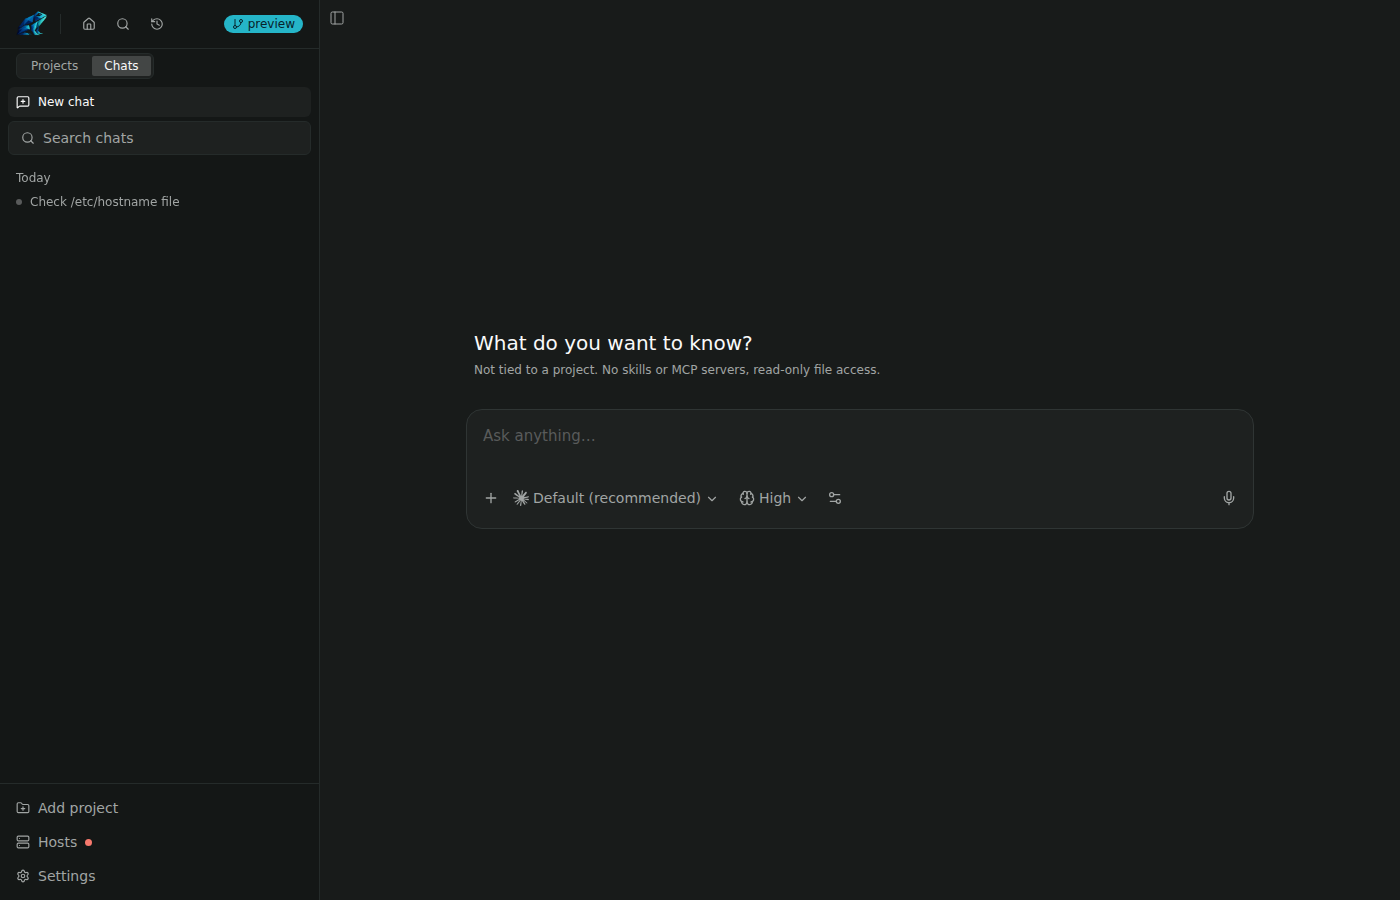
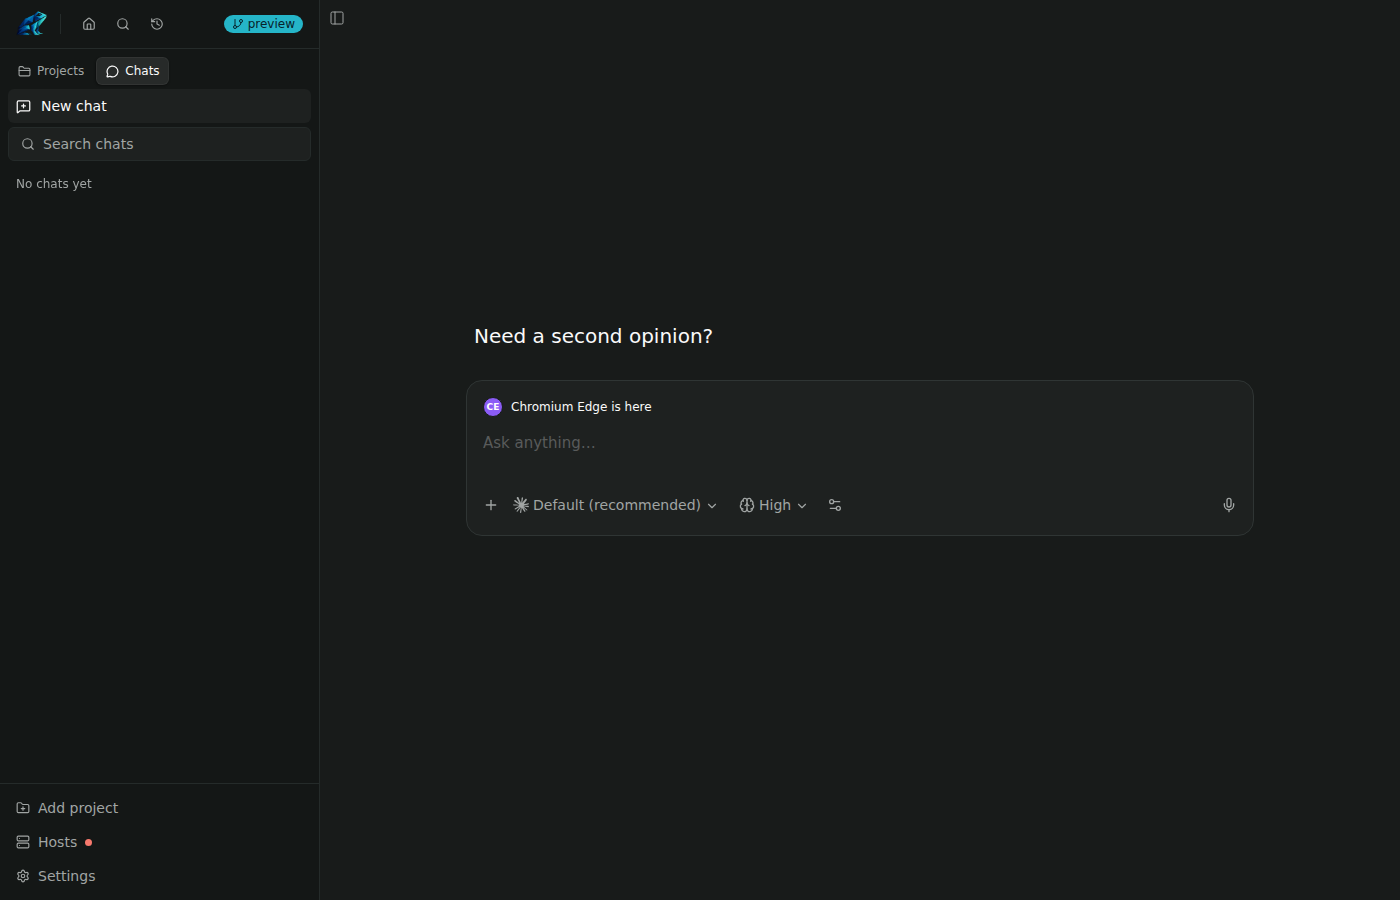
feat(chats): rotating new-chat headings, drop the subtext

diff --git a/apps/ui/src/screens/new-chat-screen.tsx b/apps/ui/src/screens/new-chat-screen.tsx
@@ -24,6 +24,24 @@ import { buildFirstAgentContext, submitWorkspaceDraft } from "./new-workspace-sc
 import { getWorkspaceNamingAttachments } from "./new-workspace-fork-context";
 
 const NEW_CHAT_DRAFT_KEY = "new-chat";
+const NEW_CHAT_TITLE_KEYS = [
+  "t1",
+  "t2",
+  "t3",
+  "t4",
+  "t5",
+  "t6",
+  "t7",
+  "t8",
+  "t9",
+  "t10",
+  "t11",
+  "t12",
+] as const;
+
+function pickNewChatTitleKey(): (typeof NEW_CHAT_TITLE_KEYS)[number] {
+  return NEW_CHAT_TITLE_KEYS[Math.floor(Math.random() * NEW_CHAT_TITLE_KEYS.length)]!;
+}
 /** Matches CHAT_WEB_ACCESS_FEATURE_ID on the daemon. */
 export const CHAT_WEB_ACCESS_FEATURE_ID = "web_access";
 const EMPTY_CHAT_PROVIDERS: readonly string[] = [];
@@ -47,6 +65,8 @@ export function NewChatScreen({ serverId }: { serverId: string }) {
   const mergeWorkspaces = useSessionStore((state) => state.mergeWorkspaces);
   const [isPending, setIsPending] = useState(false);
   const [webAccess, setWebAccess] = useState(true);
+  // Picked once per visit so the heading does not change under the user while they type.
+  const [titleKey] = useState(pickNewChatTitleKey);
 
   const chatDraft = useAgentInputDraft({
     draftKey: NEW_CHAT_DRAFT_KEY,
@@ -200,8 +220,7 @@ export function NewChatScreen({ serverId }: { serverId: string }) {
         <TitlebarDragRegion />
         <View style={staticStyles.centered}>
           <View style={styles.titleContainer}>
-            <Text style={styles.title}>{t("newChat.title")}</Text>
-            <Text style={styles.subtitle}>{t("newChat.subtitle")}</Text>
+            <Text style={styles.title}>{t(`newChat.titles.${titleKey}`)}</Text>
           </View>
           <Composer
             externalKeyboardShift
@@ -265,9 +284,5 @@ const styles = StyleSheet.create((theme) => ({
     fontSize: theme.fontSize["2xl"],
     fontWeight: theme.fontWeight.normal,
     color: theme.colors.foreground,
-  },
-  subtitle: {
-    fontSize: theme.fontSize.sm,
-    color: theme.colors.foregroundMuted,
   },
 }));

diff --git a/apps/ui/src/i18n/resources/ru.ts b/apps/ui/src/i18n/resources/ru.ts
@@ -1382,9 +1382,21 @@ export const ru: TranslationResources = {
     },
   },
   newChat: {
+    titles: {
+      t1: "Что вы хотите узнать?",
+      t2: "О чём думаете?",
+      t3: "Спрашивайте что угодно.",
+      t4: "Что разберём сегодня?",
+      t5: "С чего начнём?",
+      t6: "Есть вопрос?",
+      t7: "Что вам интересно?",
+      t8: "Над чем помочь подумать?",
+      t9: "Во что углубимся?",
+      t10: "Нужно второе мнение?",
+      t11: "Над чем вы работаете?",
+      t12: "Давайте разберёмся.",
+    },
     placeholder: "Спросите что угодно…",
-    title: "Что вы хотите узнать?",
-    subtitle: "Без привязки к проекту. Без навыков и MCP-серверов, файлы только для чтения.",
     send: "Начать чат",
     errors: {
       hostUnsupported: "Этот хост не поддерживает чаты. Обновите его демон.",

diff --git a/apps/ui/src/i18n/resources/ja.ts b/apps/ui/src/i18n/resources/ja.ts
@@ -1380,9 +1380,21 @@ export const ja: TranslationResources = {
     },
   },
   newChat: {
+    titles: {
+      t1: "何を知りたいですか？",
+      t2: "何か考えていることは？",
+      t3: "何でも聞いてください。",
+      t4: "今日は何を解き明かしましょう？",
+      t5: "どこから始めましょう？",
+      t6: "質問はありますか？",
+      t7: "何が気になりますか？",
+      t8: "何を一緒に考えましょう？",
+      t9: "何を掘り下げましょう？",
+      t10: "セカンドオピニオンが必要ですか？",
+      t11: "今何に取り組んでいますか？",
+      t12: "一緒に考えましょう。",
+    },
     placeholder: "何でも聞いてください…",
-    title: "何を知りたいですか？",
-    subtitle: "プロジェクトに属しません。スキルやMCPサーバーは使わず、ファイルは読み取り専用です。",
     send: "チャットを開始",
     errors: {
       hostUnsupported: "このホストではチャットを実行できません。デーモンを更新してください。",

diff --git a/apps/ui/src/i18n/resources/ar.ts b/apps/ui/src/i18n/resources/ar.ts
@@ -1364,9 +1364,21 @@ export const ar: TranslationResources = {
     },
   },
   newChat: {
+    titles: {
+      t1: "ماذا تريد أن تعرف؟",
+      t2: "ما الذي يشغل بالك؟",
+      t3: "اسألني أي شيء.",
+      t4: "ما الذي سنكتشفه اليوم؟",
+      t5: "من أين نبدأ؟",
+      t6: "هل لديك سؤال؟",
+      t7: "ما الذي يثير فضولك؟",
+      t8: "بماذا أساعدك في التفكير؟",
+      t9: "ما الذي سنتعمق فيه؟",
+      t10: "هل تحتاج إلى رأي آخر؟",
+      t11: "على ماذا تعمل؟",
+      t12: "لنحلّ شيئًا معًا.",
+    },
     placeholder: "اسأل عن أي شيء…",
-    title: "ماذا تريد أن تعرف؟",
-    subtitle: "غير مرتبطة بمشروع. بلا مهارات أو خوادم MCP، ووصول للملفات للقراءة فقط.",
     send: "بدء المحادثة",
     errors: {
       hostUnsupported: "لا يمكن لهذا المضيف تشغيل المحادثات. حدّث البرنامج الخفي الخاص به.",

diff --git a/apps/ui/src/i18n/resources/ko.ts b/apps/ui/src/i18n/resources/ko.ts
@@ -1374,9 +1374,21 @@ export const ko: TranslationResources = {
     },
   },
   newChat: {
+    titles: {
+      t1: "무엇이 궁금하신가요?",
+      t2: "무슨 생각을 하고 계세요?",
+      t3: "무엇이든 물어보세요.",
+      t4: "오늘은 무엇을 알아볼까요?",
+      t5: "어디서부터 시작할까요?",
+      t6: "질문이 있으신가요?",
+      t7: "무엇이 궁금한가요?",
+      t8: "무엇을 함께 고민해 볼까요?",
+      t9: "무엇을 파고들어 볼까요?",
+      t10: "다른 의견이 필요하신가요?",
+      t11: "무슨 작업을 하고 계세요?",
+      t12: "함께 풀어 봐요.",
+    },
     placeholder: "무엇이든 물어보세요…",
-    title: "무엇이 궁금하신가요?",
-    subtitle: "프로젝트에 속하지 않습니다. 스킬과 MCP 서버 없이 파일은 읽기 전용입니다.",
     send: "채팅 시작",
     errors: {
       hostUnsupported: "이 호스트는 채팅을 실행할 수 없습니다. 데몬을 업데이트하세요.",

diff --git a/apps/ui/src/i18n/resources/fr.ts b/apps/ui/src/i18n/resources/fr.ts
@@ -1400,9 +1400,21 @@ export const fr: TranslationResources = {
     },
   },
   newChat: {
+    titles: {
+      t1: "Que voulez-vous savoir ?",
+      t2: "Qu'avez-vous en tête ?",
+      t3: "Demandez-moi ce que vous voulez.",
+      t4: "Qu'est-ce qu'on résout aujourd'hui ?",
+      t5: "Par où commencer ?",
+      t6: "Une question ?",
+      t7: "Qu'est-ce qui vous intrigue ?",
+      t8: "Sur quoi puis-je vous aider à réfléchir ?",
+      t9: "Qu'est-ce qu'on approfondit ?",
+      t10: "Besoin d'un deuxième avis ?",
+      t11: "Sur quoi travaillez-vous ?",
+      t12: "Réfléchissons-y ensemble.",
+    },
     placeholder: "Posez n'importe quelle question…",
-    title: "Que voulez-vous savoir ?",
-    subtitle: "Sans projet. Aucun skill ni serveur MCP, accès aux fichiers en lecture seule.",
     send: "Démarrer la discussion",
     errors: {
       hostUnsupported: "Cet hôte ne peut pas exécuter de discussions. Mettez à jour son daemon.",

diff --git a/apps/ui/src/i18n/resources/pt-BR.ts b/apps/ui/src/i18n/resources/pt-BR.ts
@@ -1390,10 +1390,21 @@ export const ptBR: TranslationResources = {
     },
   },
   newChat: {
+    titles: {
+      t1: "O que você quer saber?",
+      t2: "O que está pensando?",
+      t3: "Pergunte o que quiser.",
+      t4: "O que vamos descobrir hoje?",
+      t5: "Por onde começamos?",
+      t6: "Tem uma pergunta?",
+      t7: "Sobre o que você está curioso?",
+      t8: "Em que posso ajudar você a pensar?",
+      t9: "O que vamos investigar?",
+      t10: "Precisa de uma segunda opinião?",
+      t11: "No que você está trabalhando?",
+      t12: "Vamos resolver algo juntos.",
+    },
     placeholder: "Pergunte qualquer coisa…",
-    title: "O que você quer saber?",
-    subtitle:
-      "Sem projeto vinculado. Sem skills nem servidores MCP, acesso somente leitura aos arquivos.",
     send: "Iniciar chat",
     errors: {
       hostUnsupported: "Este host não pode executar chats. Atualize o daemon dele.",

diff --git a/apps/ui/src/i18n/resources/es.ts b/apps/ui/src/i18n/resources/es.ts
@@ -1399,10 +1399,21 @@ export const es: TranslationResources = {
     },
   },
   newChat: {
+    titles: {
+      t1: "¿Qué quieres saber?",
+      t2: "¿Qué tienes en mente?",
+      t3: "Pregúntame lo que quieras.",
+      t4: "¿Qué vamos a resolver hoy?",
+      t5: "¿Por dónde empezamos?",
+      t6: "¿Tienes una pregunta?",
+      t7: "¿Qué te da curiosidad?",
+      t8: "¿En qué te ayudo a pensar?",
+      t9: "¿Qué investigamos?",
+      t10: "¿Necesitas una segunda opinión?",
+      t11: "¿En qué estás trabajando?",
+      t12: "Vamos a resolver algo.",
+    },
     placeholder: "Pregunta lo que quieras…",
-    title: "¿Qué quieres saber?",
-    subtitle:
-      "Sin proyecto asociado. Sin skills ni servidores MCP, acceso de solo lectura a archivos.",
     send: "Iniciar chat",
     errors: {
       hostUnsupported: "Este host no puede ejecutar chats. Actualiza su daemon.",

diff --git a/apps/ui/src/i18n/resources/zh-CN.ts b/apps/ui/src/i18n/resources/zh-CN.ts
@@ -1353,9 +1353,21 @@ export const zhCN: TranslationResources = {
     },
   },
   newChat: {
+    titles: {
+      t1: "你想了解什么？",
+      t2: "在想什么？",
+      t3: "随便问吧。",
+      t4: "今天要弄明白什么？",
+      t5: "从哪里开始？",
+      t6: "有问题吗？",
+      t7: "对什么感到好奇？",
+      t8: "想让我帮你理清什么？",
+      t9: "要深入研究什么？",
+      t10: "需要第二种意见吗？",
+      t11: "你在忙什么？",
+      t12: "一起想想办法吧。",
+    },
     placeholder: "问点什么…",
-    title: "你想了解什么？",
-    subtitle: "不属于任何项目。不加载技能或 MCP 服务器，文件只读。",
     send: "开始对话",
     errors: {
       hostUnsupported: "此主机无法运行对话。请更新其守护进程。",

diff --git a/apps/ui/src/i18n/resources/en.ts b/apps/ui/src/i18n/resources/en.ts
@@ -1376,9 +1376,21 @@ export const en = {
     },
   },
   newChat: {
+    titles: {
+      t1: "What do you want to know?",
+      t2: "What's on your mind?",
+      t3: "Ask me anything.",
+      t4: "What are we figuring out today?",
+      t5: "Where should we start?",
+      t6: "Got a question?",
+      t7: "What are you curious about?",
+      t8: "What can I help you think through?",
+      t9: "What should we dig into?",
+      t10: "Need a second opinion?",
+      t11: "What are you working on?",
+      t12: "Let's work something out.",
+    },
     placeholder: "Ask anything…",
-    title: "What do you want to know?",
-    subtitle: "Not tied to a project. No skills or MCP servers, read-only file access.",
     send: "Start chat",
     errors: {
       hostUnsupported: "This host can't run chats. Update its daemon.",
